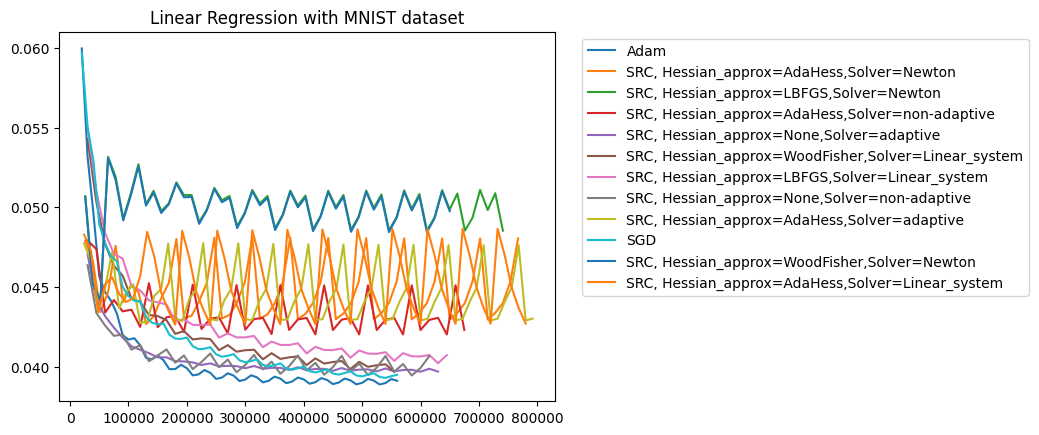
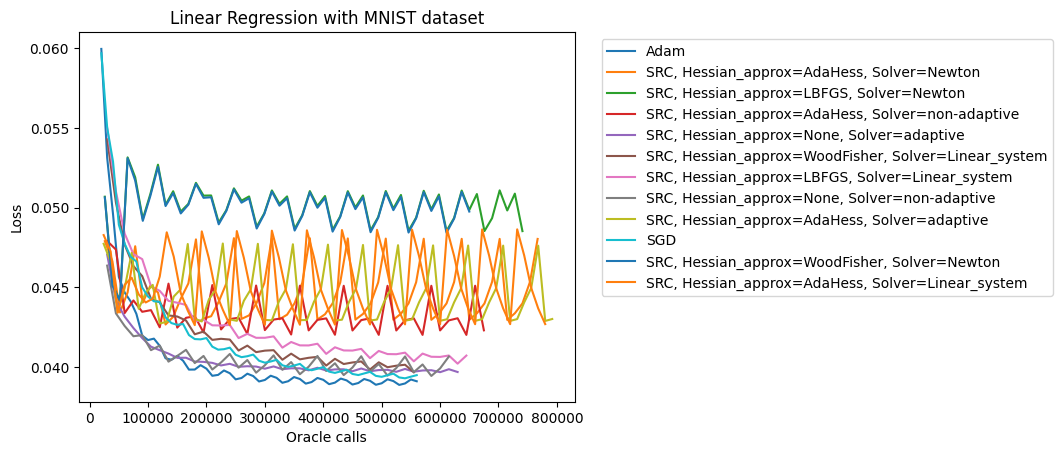
ResNet_18 + experiments

Changed region(s): [[0.0, 0.0, 0.5544, 0.9862], [0.5544, 0.0897, 0.9856, 0.6874], [0.0, 0.777, 0.0924, 0.8667]]

diff --git a/code/cubic_src/config.py b/code/cubic_src/config.py
@@ -15,6 +15,107 @@ from resnet_cifar import resnet20_cifar
 torch.manual_seed(7)
 torch.set_printoptions(precision=10)
 
+# ResNet
+
+
+class BasicBlock(nn.Module):
+    expansion = 1
+
+    def __init__(self, in_planes, planes, stride=1):
+        super(BasicBlock, self).__init__()
+        self.conv1 = nn.Conv2d(
+            in_planes, planes, kernel_size=3, stride=stride, padding=1, bias=False)
+        self.bn1 = nn.BatchNorm2d(planes)
+        self.conv2 = nn.Conv2d(planes, planes, kernel_size=3,
+                               stride=1, padding=1, bias=False)
+        self.bn2 = nn.BatchNorm2d(planes)
+
+        self.shortcut = nn.Sequential()
+        if stride != 1 or in_planes != self.expansion*planes:
+            self.shortcut = nn.Sequential(
+                nn.Conv2d(in_planes, self.expansion*planes,
+                          kernel_size=1, stride=stride, bias=False),
+                nn.BatchNorm2d(self.expansion*planes)
+            )
+
+    def forward(self, x):
+        out = F.relu(self.bn1(self.conv1(x)))
+        out = self.bn2(self.conv2(out))
+        out += self.shortcut(x)
+        out = F.relu(out)
+        return out
+
+
+class Bottleneck(nn.Module):
+    expansion = 4
+
+    def __init__(self, in_planes, planes, stride=1):
+        super(Bottleneck, self).__init__()
+        self.conv1 = nn.Conv2d(in_planes, planes, kernel_size=1, bias=False)
+        self.bn1 = nn.BatchNorm2d(planes)
+        self.conv2 = nn.Conv2d(planes, planes, kernel_size=3,
+                               stride=stride, padding=1, bias=False)
+        self.bn2 = nn.BatchNorm2d(planes)
+        self.conv3 = nn.Conv2d(planes, self.expansion *
+                               planes, kernel_size=1, bias=False)
+        self.bn3 = nn.BatchNorm2d(self.expansion*planes)
+
+        self.shortcut = nn.Sequential()
+        if stride != 1 or in_planes != self.expansion*planes:
+            self.shortcut = nn.Sequential(
+                nn.Conv2d(in_planes, self.expansion*planes,
+                          kernel_size=1, stride=stride, bias=False),
+                nn.BatchNorm2d(self.expansion*planes)
+            )
+
+    def forward(self, x):
+        out = F.relu(self.bn1(self.conv1(x)))
+        out = F.relu(self.bn2(self.conv2(out)))
+        out = self.bn3(self.conv3(out))
+        out += self.shortcut(x)
+        out = F.relu(out)
+        return out
+
+
+class ResNet(nn.Module):
+    def __init__(self, block, num_blocks, num_classes=10):
+        super(ResNet, self).__init__()
+        self.in_planes = 64
+
+        self.conv1 = nn.Conv2d(3, 64, kernel_size=3,
+                               stride=1, padding=1, bias=False)
+        self.bn1 = nn.BatchNorm2d(64)
+        self.layer1 = self._make_layer(block, 64, num_blocks[0], stride=1)
+        self.layer2 = self._make_layer(block, 128, num_blocks[1], stride=2)
+        self.layer3 = self._make_layer(block, 256, num_blocks[2], stride=2)
+        self.layer4 = self._make_layer(block, 512, num_blocks[3], stride=2)
+        self.linear = nn.Linear(512*block.expansion, num_classes)
+
+    def _make_layer(self, block, planes, num_blocks, stride):
+        strides = [stride] + [1]*(num_blocks-1)
+        layers = []
+        for stride in strides:
+            layers.append(block(self.in_planes, planes, stride))
+            self.in_planes = planes * block.expansion
+        return nn.Sequential(*layers)
+
+    def forward(self, x):
+        out = F.relu(self.bn1(self.conv1(x)))
+        out = self.layer1(out)
+        out = self.layer2(out)
+        out = self.layer3(out)
+        out = self.layer4(out)
+        out = F.avg_pool2d(out, 4)
+        out = out.view(out.size(0), -1)
+        out = self.linear(out)
+        return out
+
+
+def ResNet18():
+    return ResNet(BasicBlock, [2, 2, 2, 2])
+
+# ResNet
+
 
 class Flatten(nn.Module):
 
@@ -185,7 +286,7 @@ def to_img(x):
     return x
 
 
-network_to_use = 'LIN_REG_MNIST'  # AE_MNIST, CNN_MNIST, CONV_AE_MNIST, CNN_CIFAR, LIN_REG_MNIST
+network_to_use = 'ResNet_18_CIFAR'  # AE_MNIST, CNN_MNIST, CONV_AE_MNIST, CNN_CIFAR, LIN_REG_MNIST, ResNet_18
 activation = 'softplus'  # swish, softplus, relu
 
 transforms_dict = {
@@ -207,6 +308,9 @@ transforms_dict = {
                        ]),
         'CNN_CIFAR': transforms.Compose(
             [transforms.ToTensor(),
+             transforms.Normalize((0.5, 0.5, 0.5), (0.5, 0.5, 0.5))]),
+        'ResNet_18_CIFAR': transforms.Compose(
+            [transforms.ToTensor(),
              transforms.Normalize((0.5, 0.5, 0.5), (0.5, 0.5, 0.5))])
     }
 
@@ -214,13 +318,15 @@ models = {'AE_MNIST': AE_MNIST(activation),
           'CONV_AE_MNIST': CONV_AE_MNIST(),
           'CNN_MNIST': Net(activation),
           'CNN_CIFAR': CIFAR_Net(),
-          'LIN_REG_MNIST': LinearRegression()}
+          'LIN_REG_MNIST': LinearRegression(),
+          'ResNet_18_CIFAR': ResNet18()}
 
 criteria = {'AE_MNIST': nn.MSELoss(reduction='mean'),
             'CONV_AE_MNIST': nn.MSELoss(reduction='mean'),
             'CNN_MNIST': F.nll_loss,
             'CNN_CIFAR': nn.CrossEntropyLoss(),
-            'LIN_REG_MNIST': nn.MSELoss(reduction='mean')}  # nn.CrossEntropyLoss(reduction='mean')}
+            'LIN_REG_MNIST': nn.MSELoss(reduction='mean'),
+            'ResNet_18_CIFAR': nn.CrossEntropyLoss()}  # nn.CrossEntropyLoss(reduction='mean')}
 
 
 # Loading the data

diff --git a/code/cubic_src/fig_final/linreg_mnist/plot_final_linreg_mnist_100_vs_10.py b/code/cubic_src/fig_final/linreg_mnist/plot_final_linreg_mnist_100_vs_10.py
@@ -1,0 +1,46 @@
+import matplotlib.pyplot as plt
+import pandas as pd
+from torch import tensor
+import glob
+
+
+files = ['loss_src_n_iter=4_delta=False_Hessian_approx=None_Solver=adaptive_sigma=100.0_delta_step=0.001_eta=0.1_LIN_REG_MNIST_adaptive_H_size=10_g_size=100.csv',
+         'loss_src_n_iter=4_delta=False_Hessian_approx=None_Solver=adaptive_sigma=100.0_delta_step=0.001_eta=0.1_LIN_REG_MNIST_adaptive_H_size=100_g_size=100.csv']
+
+cts = 'computations'
+
+dfs = {}
+
+for file in files:
+    split_ = file.split("_")
+    hsize = file.split("H_size=")[1].split("_")[0]
+    label = "{}".format(split_[4]) \
+        if 'loss' not in file else \
+        'SRC, ' + split_[5]+'_' + split_[6] + ', ' \
+        + split_[7].replace('Linear', 'Linear_system') + ', Hessian batch size=' + hsize
+    dfs[label] = pd.read_csv(file)
+
+
+for label, df in dfs.items():
+    plt.plot(df[cts if cts in df.columns else 'samples'][2:], df['losses'][2:],
+             label=label)
+
+plt.legend(bbox_to_anchor=(1.04, 1), loc='upper left')
+plt.title('Linear Regression with MNIST dataset - Hessian batch size 100 vs. 10')
+plt.xlabel('Computations')
+plt.ylabel('Loss')
+plt.savefig('linreg_MNIST_hsize.png', bbox_inches="tight")
+
+'''
+SGD = pd.read_csv('../w-function/computations_momentum_loss_SGD_non-convex_300_300_0.01_0.0_1.csv')
+SRC = pd.read_csv('../w-function/computations_loss_SRC_non-convex_300_300_non-adaptive_0.06_10_1_1_False_0.9_1.csv')
+
+optimizers = {'SGD': SGD,
+              'SRC': SRC}
+
+for key, val in optimizers.items():
+    plt.plot(val['computations_done_times_samples'], val['losses'], label=key)
+plt.legend()
+plt.title('w-function')
+plt.savefig('w-function_SGD_SRC.png')'''
+

diff --git a/code/cubic_src/fig_final/linreg_mnist/plot_final_linreg_mnist_best.py b/code/cubic_src/fig_final/linreg_mnist/plot_final_linreg_mnist_best.py
@@ -9,11 +9,12 @@ cts = 'computations_times_sample'
 dfs = {}
 
 for file in files:
-    split_ = file.split("_")
-    label = "{}".format(split_[4]) \
-        if 'loss' not in file else \
-        'SRC, ' + split_[5]+'_' + split_[6] + ',' + split_[7].replace('Linear', 'Linear_system')
-    dfs[label] = pd.read_csv(file)
+    if 'H_size=100' not in file:
+        split_ = file.split("_")
+        label = "{}".format(split_[4]) \
+            if 'loss' not in file else \
+            'SRC, ' + split_[5]+'_' + split_[6] + ', ' + split_[7].replace('Linear', 'Linear_system')
+        dfs[label] = pd.read_csv(file)
 
 for label, df in dfs.items():
     plt.plot(df[cts if cts in df.columns else 'samples'][2:], df['losses'][2:],
@@ -21,6 +22,8 @@ for label, df in dfs.items():
 
 plt.legend(bbox_to_anchor=(1.04, 1), loc='upper left')
 plt.title('Linear Regression with MNIST dataset')
+plt.xlabel('Oracle calls')
+plt.ylabel('Loss')
 plt.savefig('linreg_MNIST.png', bbox_inches="tight")
 
 '''

diff --git a/code/cubic_src/utils.py b/code/cubic_src/utils.py
@@ -302,12 +302,17 @@ class SRCutils(Optimizer):
 
     def print_acc(self, batch_size, epoch, batch_idx):
         if self.first_entry:
-
             n_digits = 10
             self.y_onehot = torch.FloatTensor(
                 int(self.defaults['sample_size_gradient']), n_digits)
             self.y_onehot_hess = torch.FloatTensor(
                 int(self.defaults['sample_size_hessian']), n_digits)
+
+            # To get the first eigenvalue, norm
+            #self.least_eig = self.get_hessian_eigen(which='least', maxIter=20)
+            #self.grad, self.params = self.get_grads_and_params()
+            #self.grad_norms = self.grad.norm(p=2).detach().cpu().numpy()
+
             self.f_name = self.mydir + '/loss_src' \
                           + '_n_iter=' + str(self.defaults['n_iter']) \
                           + '_delta=' + str(self.defaults['delta_momentum']) \

diff --git a/code/cubic_src/fig_final/linreg_mnist/plot_final_linreg_mnist_eig_best.py b/code/cubic_src/fig_final/linreg_mnist/plot_final_linreg_mnist_eig_best.py
@@ -1,0 +1,16 @@
+import matplotlib.pyplot as plt
+import pandas as pd
+from torch import tensor
+import glob
+
+cts = 'computations_times_sample'
+
+df = pd.read_csv("loss_src_n_iter=4_delta=False_Hessian_approx=None_Solver=adaptive_sigma=100.0_delta_step=0.001_eta=0.1_LIN_REG_MNIST_adaptive_H_size=10_g_size=100.csv")
+plt.plot(df[cts], df['grad_norms']) #, label='Norm of the stochastic gradient')
+
+#plt.legend() #bbox_to_anchor=(1.04, 1), loc='upper left')
+plt.title('Linear Regression with MNIST dataset')
+plt.xlabel('Oracle calls')
+plt.ylabel('Gradient norm')
+plt.savefig('linreg_MNIST_grad.png') #, bbox_inches="tight")
+

diff --git a/code/cubic_src/train.py b/code/cubic_src/train.py
@@ -237,7 +237,8 @@ def main():
             optimizer.defaults['train_data'] = data
             optimizer.defaults['target'] = target
 
-
+            # To get the first norm, eig
+            #optimizer.print_acc(len(data), epoch, batch_idx)
             optimizer.step()
             #print('Memory used step: ', psutil.virtual_memory().used >> 20)
             gc.collect()

diff --git a/code/cubic_src/fig_final/w-function/plot_final_w_func.py b/code/cubic_src/fig_final/w-function/plot_final_w_func.py
@@ -11,6 +11,8 @@ optimizers = {'SGD': SGD,
 for key, val in optimizers.items():
     plt.plot(val['computations_done_times_samples'], val['losses'], label=key)
 plt.legend()
-plt.title('w-function')
+plt.title('W-function')
+plt.xlabel('Oracle calls')
+plt.ylabel('Loss')
 plt.savefig('w-function_SGD_SRC.png')
 
